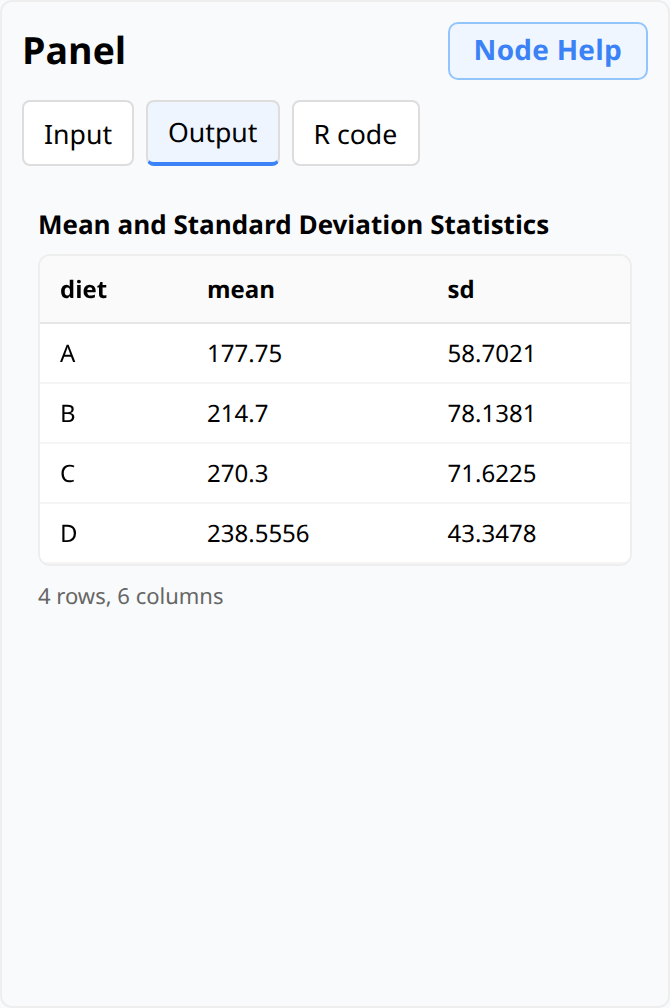
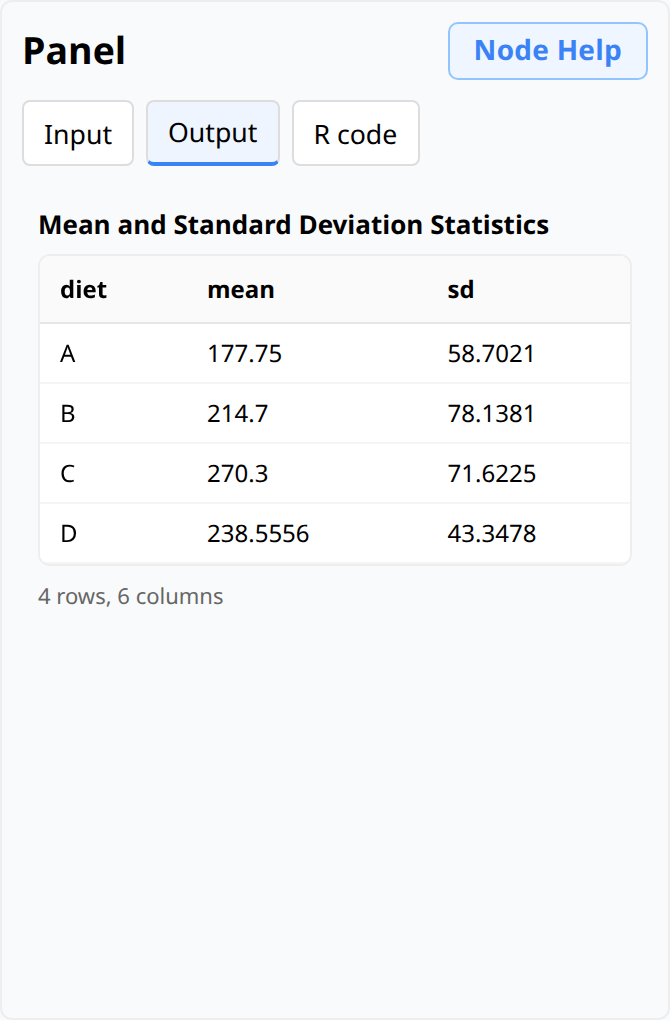
Bugfix: ensure Summary panel set to Output height

diff --git a/playwright/tests/tutorial1a.screenshots.spec.ts b/playwright/tests/tutorial1a.screenshots.spec.ts
@@ -320,41 +320,40 @@ test('capture tutorial 1a workflow and nodes', async ({ page }) => {
   await expect(summary).toBeVisible({ timeout: 15_000 });
   await summary.click();
   await expect(panel).toBeVisible();
-  
-  // Measure input panel height
-  const inputBox = await panel.boundingBox();
-  if (!inputBox) {
-    throw new Error('Could not measure the Summary input panel.');
-  }
-  let maxHeight = inputBox.height;
-  await panel.screenshot({
-    path: path.join(imagesDir, 'tutorial_1a_summary_input_panel.png'),
-  });
 
   // Run the node to generate output
   await runNode();
   await page.waitForTimeout(1500);
 
-  // Measure output panel height
+  // Use the Output tab's height for all three screenshots.
   const outputBox = await panel.boundingBox();
   if (!outputBox) {
     throw new Error('Could not measure the Summary output panel.');
   }
-  maxHeight = Math.max(maxHeight, outputBox.height);
+  await panel.evaluate((el, height) => {
+    el.style.boxSizing = 'border-box';
+    el.style.minHeight = `${height}px`;
+  }, outputBox.height);
+  const assertSummaryHeight = async () => {
+    const box = await panel.boundingBox();
+    expect(box?.height).toBeCloseTo(outputBox.height, 0);
+  };
+  await assertSummaryHeight();
   await panel.screenshot({
     path: path.join(imagesDir, 'tutorial_1a_summary_output_panel.png'),
   });
 
-  // Measure R code panel height
   await tab('R code').click();
   await page.waitForTimeout(500);
-  const rCodeBox = await panel.boundingBox();
-  if (!rCodeBox) {
-    throw new Error('Could not measure the Summary R code panel.');
-  }
-  maxHeight = Math.max(maxHeight, rCodeBox.height);
+  await assertSummaryHeight();
   await panel.screenshot({
     path: path.join(imagesDir, 'tutorial_1a_summary_r_code_panel.png'),
+  });
+
+  await tab('Input').click();
+  await assertSummaryHeight();
+  await panel.screenshot({
+    path: path.join(imagesDir, 'tutorial_1a_summary_input_panel.png'),
   });
 
   // Capture the Means / SD node's Input, Output, and R code panels.
